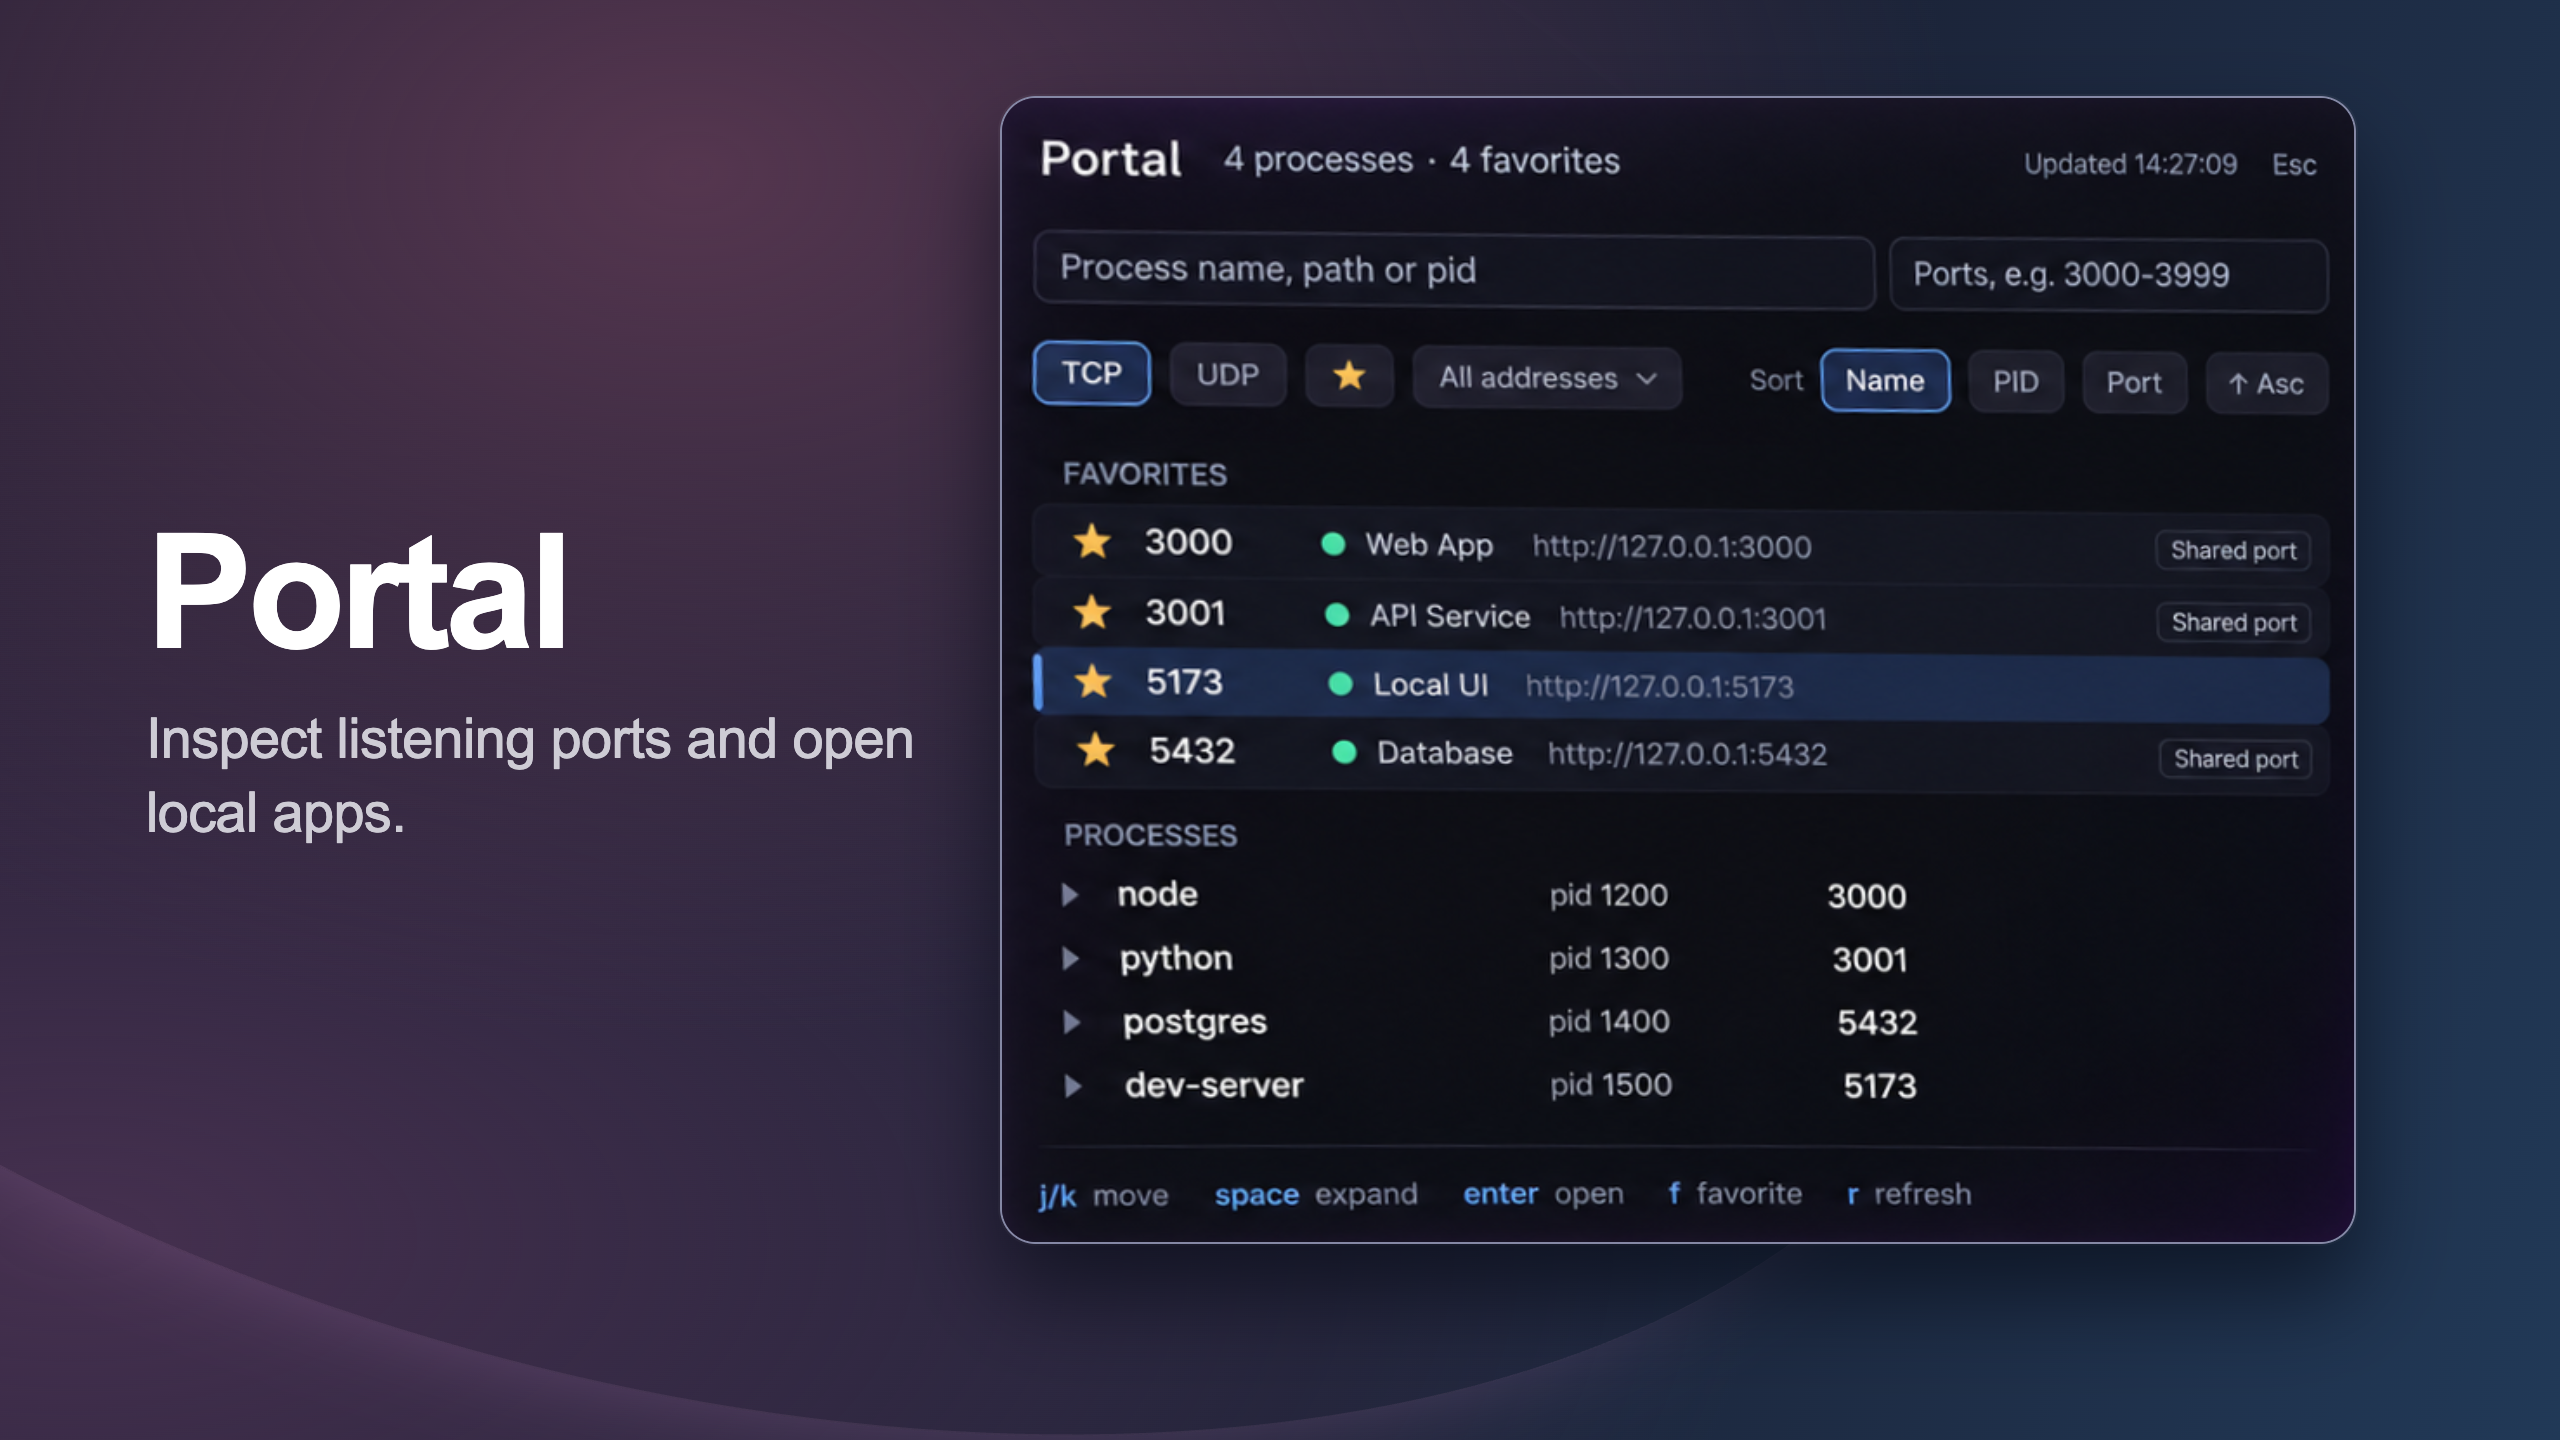
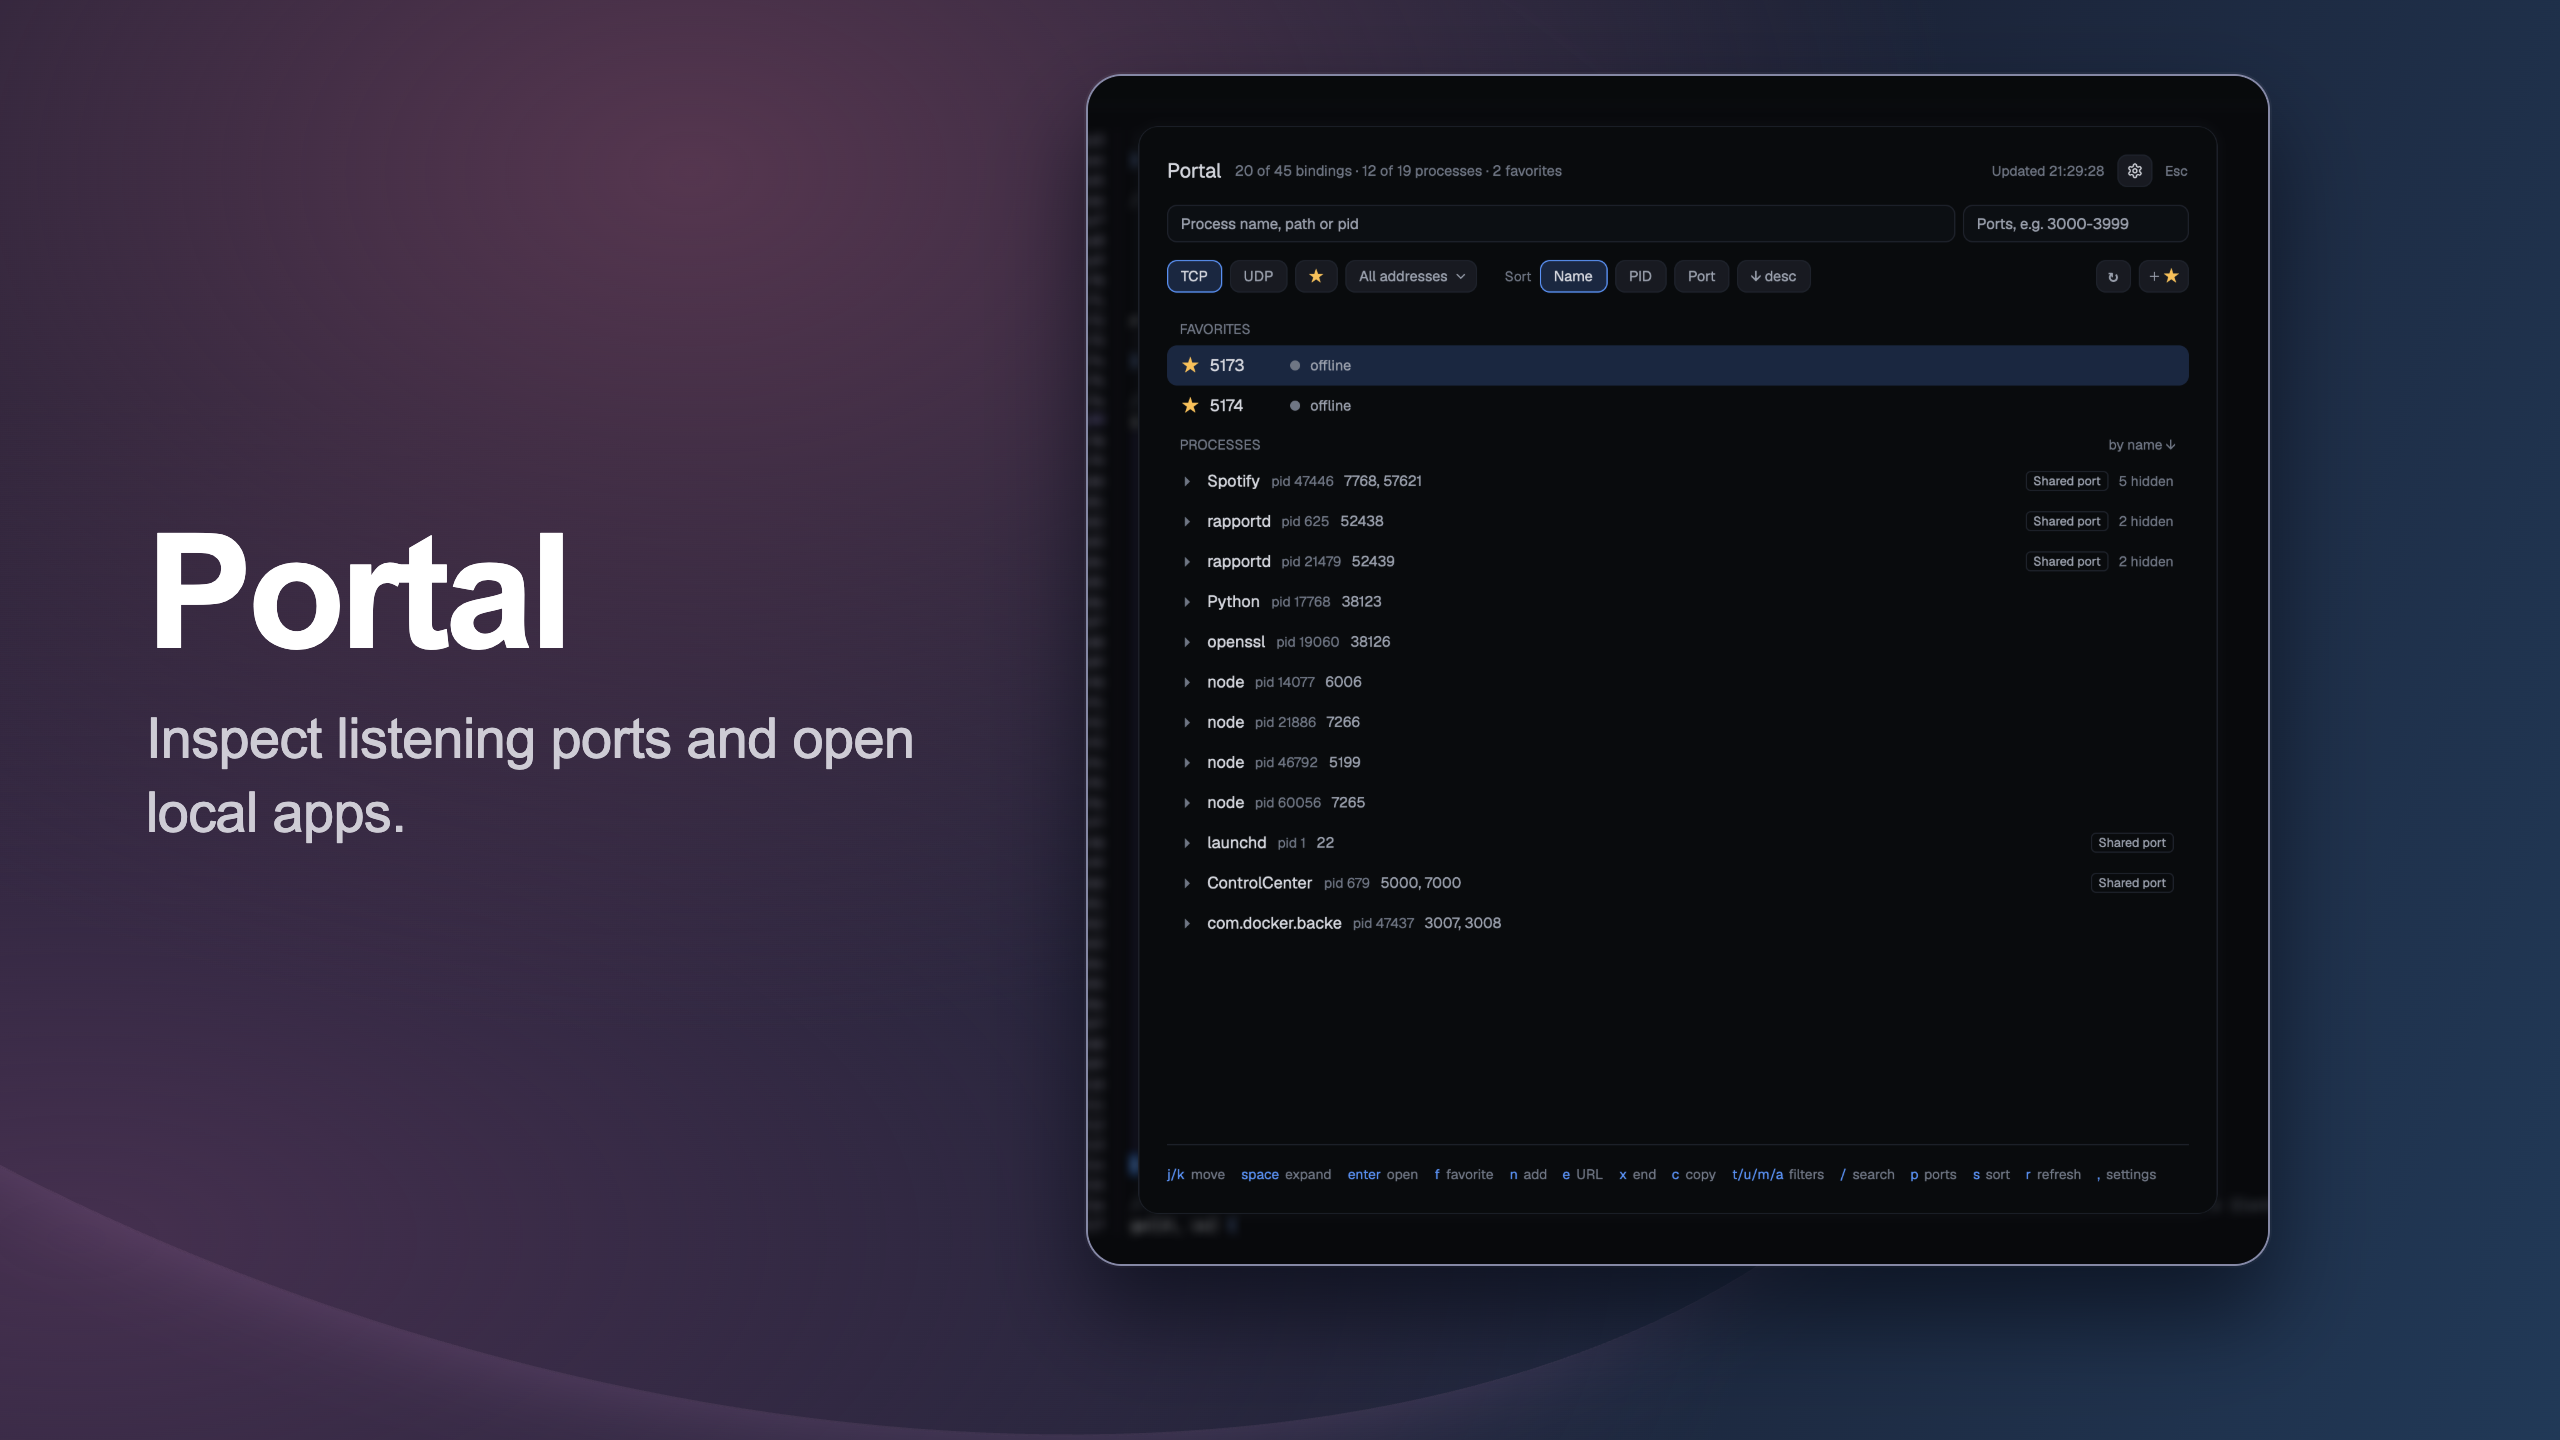
Use supplied Portal screenshot with blurred surroundings

diff --git a/gallery/INVENTORY.md b/gallery/INVENTORY.md
@@ -11,7 +11,7 @@ The supplied approved reference is preserved as `reference.jpg`. Branch and Git 
 | Tourist | `tourist/preview.png` | UI crop from the old preview, showing review scope and depth |
 | Zen | `zen/preview.png`, `zen/thumbnail-v6.png` | UI crop from the old Zen thumbnail, showing the focused editor |
 | Spotify | `spotify/preview.png`, `spotify/thumbnail.png` | Supplied Spotify screenshot, showing playback and playlists with surrounding editor blurred |
-| Portal | `portal/preview.png`, `portal/thumbnail.png` | UI crop from the old preview, showing favorite ports and processes |
+| Portal | `portal/preview.png`, `portal/thumbnail.png` | Supplied Portal screenshot, showing favorites, filters, and listening processes with surrounding editor blurred |
 | Practice Range | None | Native initial setup |
 | Tutor | None | Native course setup. No course generated. |
 | Vim Docs | `vim-docs/preview.png`, `vim-docs/thumbnail.png` | UI crop from the old preview, showing commands and favorites |
@@ -21,7 +21,7 @@ Every updated mod has a matching `preview.png` and `thumbnail.png` at 2560 × 14
 
 This branch is based on main. Tickets is present in the user's work branch, so only its gallery assets are added here. Its implementation stays on that work branch. Existing untracked thumbnail experiments in the original checkout are untouched.
 
-Five screenshots reuse the UI panels from the old images at commit `90949f0`. Jump, Run, and Spotify use the supplied screenshots with an 8 px background blur and the original dialog pixels preserved. Spotify is cropped to playback controls and the first playlist rows for legibility. Crop coordinates and blur settings are in `screenshot-crops.json`. Perspective is straightened by resampling the existing pixels. No UI is generated or redrawn. Outer promotional artwork and glowing frames are cropped away. Practice Range, Tutor, and Tickets have no older image in Git history, so their native captures remain unchanged. UI key legends and control icons remain inside the screenshots. No promotional branding, badges, icons, key callouts, or slogans were added.
+Four screenshots reuse the UI panels from the old images at commit `90949f0`. Jump, Run, Spotify, and Portal use the supplied screenshots with an 8 px background blur and the original dialog pixels preserved. Spotify is cropped to playback controls and the first playlist rows for legibility. Crop coordinates and blur settings are in `screenshot-crops.json`. Perspective is straightened by resampling the existing pixels. No UI is generated or redrawn. Outer promotional artwork and glowing frames are cropped away. Practice Range, Tutor, and Tickets have no older image in Git history, so their native captures remain unchanged. UI key legends and control icons remain inside the screenshots. No promotional branding, badges, icons, key callouts, or slogans were added.
 
 The shared composition is in `template.html`, designed at 1280 × 720 and exported at 2× resolution for sharp text on Retina displays. Titles, descriptions, prior assets, and screen states are in `mods.json`. To reproduce with Playwright and Chrome installed:
 
